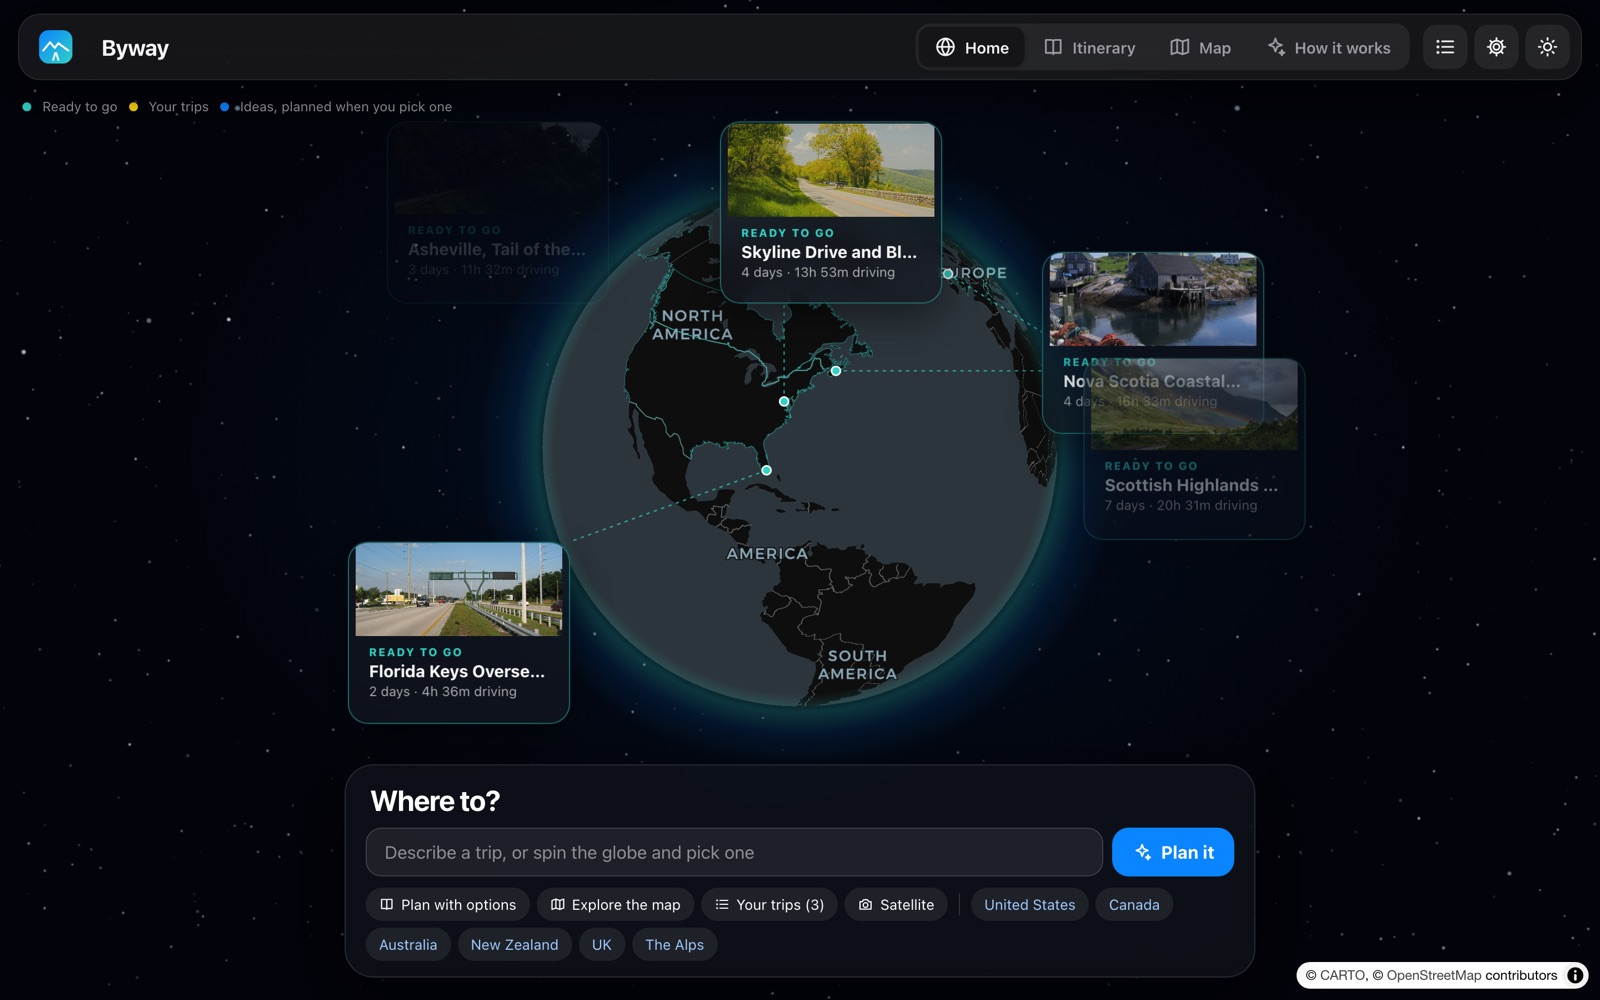
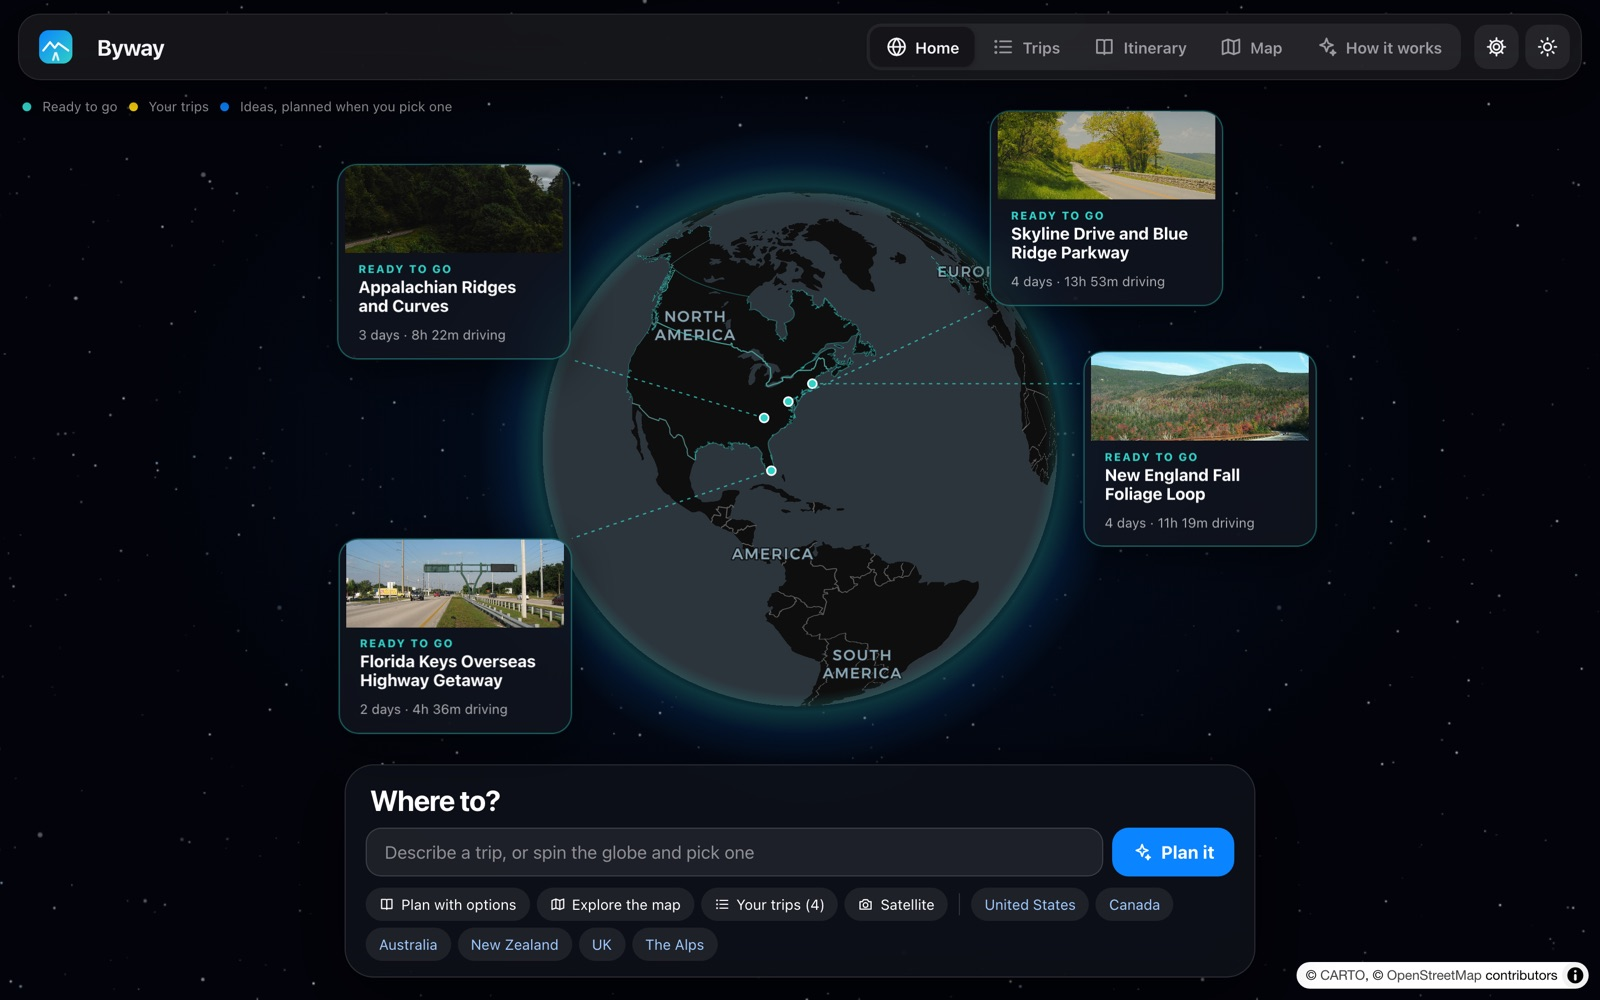
README: Trips tab screenshots, all screenshots retaken
Trips tab (ready-made, US, one open in the preview) and a phone preview next to Today on a phone.
The rest retaken for the new top bar and globe cards.

diff --git a/README.md b/README.md
@@ -7,6 +7,10 @@ in Google Maps or Apple Maps for turn-by-turn directions. It runs on your own co
 
 ![Byway home screen: a globe with ready-made trips floating around it](docs/screenshots/home.jpg)
 
+![The Trips tab: ready-made trips filtered to the United States, one open in the preview](docs/screenshots/trips.jpg)
+
+**Trips**: your own and the 35 ready-made ones, with search and filters, and a preview of every day before you open one.
+
 | | |
 |---|---|
 | ![A trip: Grand Teton, Yellowstone and the Beartooth Highway](docs/screenshots/trip.jpg) | ![A day of the trip with its photo, drive and seasonal closures](docs/screenshots/day.jpg) |
@@ -18,7 +22,11 @@ in Google Maps or Apple Maps for turn-by-turn directions. It runs on your own co
 | ![Asking a question about the trip](docs/screenshots/ask.jpg) | ![Today: the next stop, tonight's arrival and roads ahead](docs/screenshots/today.jpg) |
 | **Ask your trip**, answered from its own days and places. | **Today**: what's next while you're on the road. |
 
-<p align="center"><img src="docs/screenshots/phone-today.jpg" width="300" alt="Today on a phone"></p>
+<p align="center">
+  <img src="docs/screenshots/phone-trips.jpg" width="280" alt="A ready-made trip's preview on a phone">
+  &nbsp;
+  <img src="docs/screenshots/phone-today.jpg" width="280" alt="Today on a phone">
+</p>
 
 ## Getting started
 
